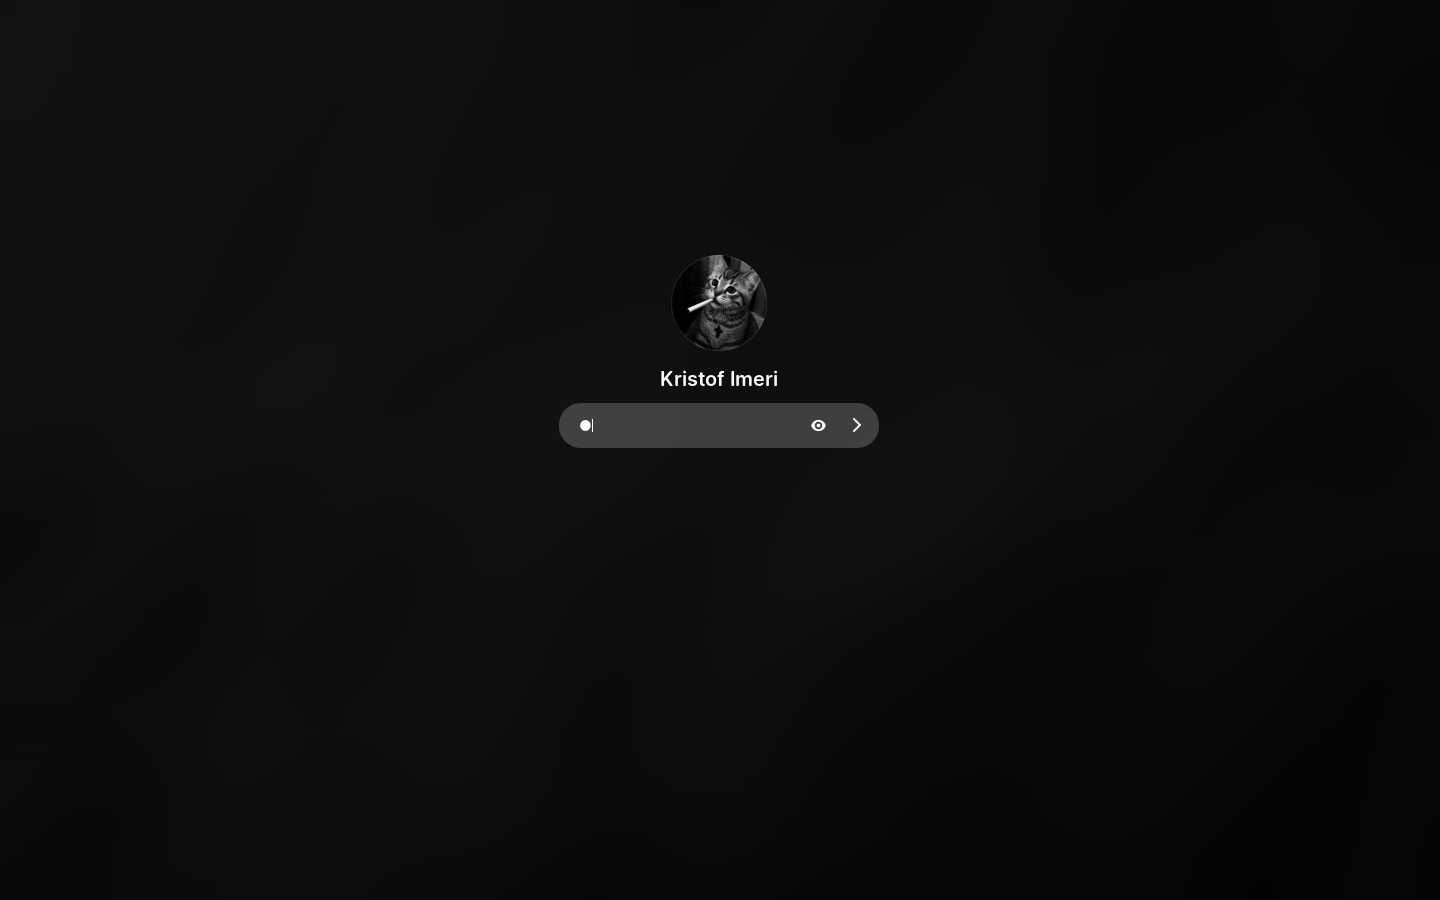
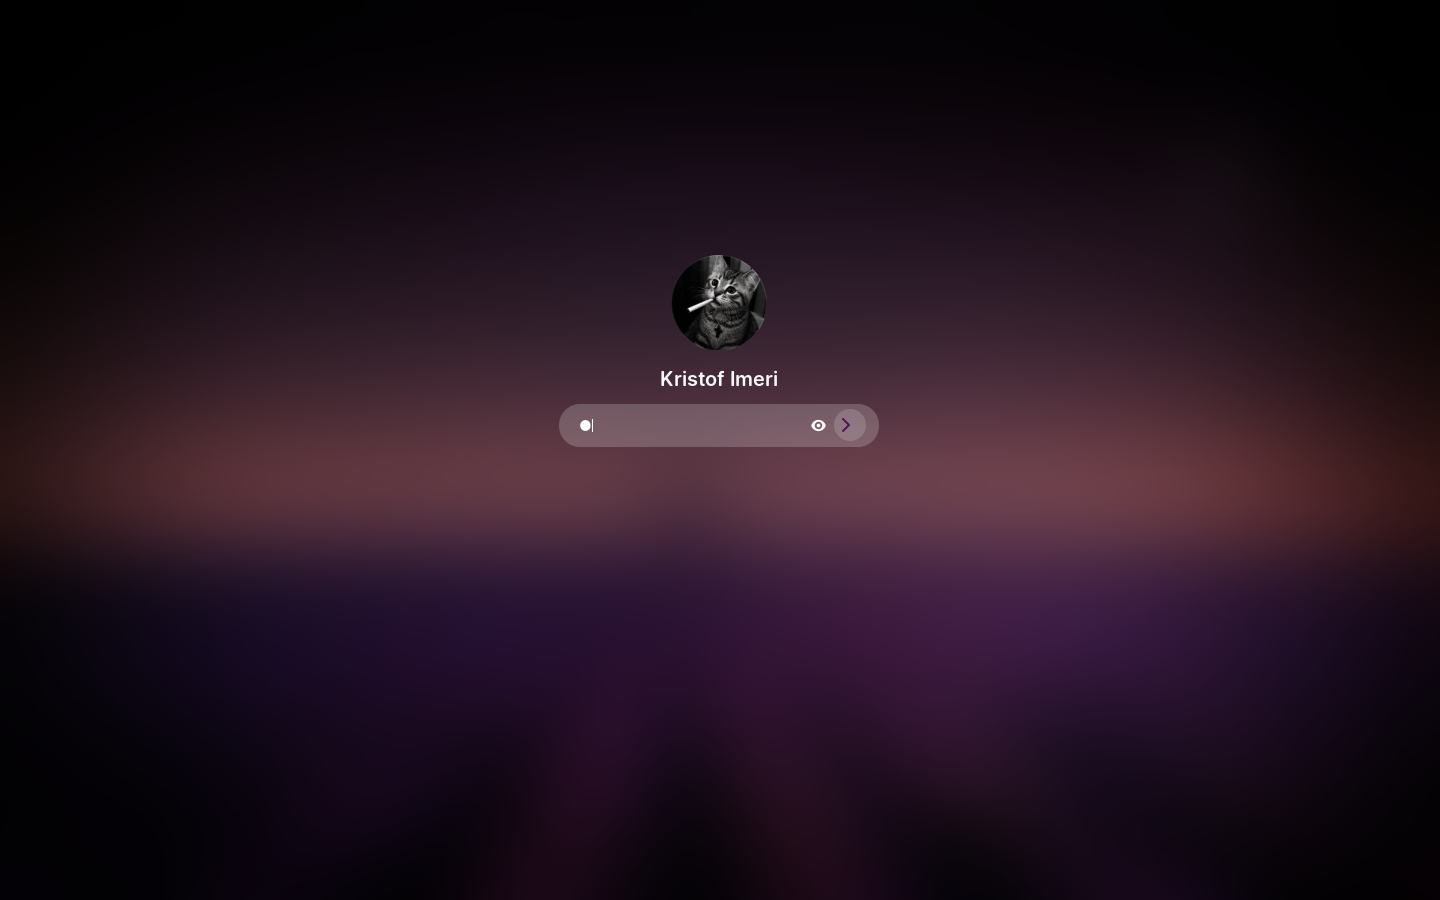
Install the login screen and document switching to it
install.sh builds and installs the settings service with its D-Bus,
polkit, systemd and tmpfiles files, installs an example greetd
configuration, and says when greetd is missing. The Kestrel README
describes the login screen, its settings, the lock screen's new sign-in
path, and how to switch from GDM to greetd and back.

diff --git a/kestrel/README.md b/kestrel/README.md
@@ -23,13 +23,13 @@ Kestrel is Luft's desktop shell. It uses a local Mutter 51 build with native win
 
 ## Runtime scope
 
-The GNOME overview, its app grid, dash, window picker, and search providers are not part of Kestrel, and neither is the GNOME extension system. The Shell D-Bus requests that opened the overview or app grid open Start instead, and a request to focus an app opens Start searching for it. The run dialog, Looking Glass, the login screen greeter, screen time limits, and parental controls are not part of Kestrel either. The screenshot window picker has its own window layout.
+The GNOME overview, its app grid, dash, window picker, and search providers are not part of Kestrel, and neither is the GNOME extension system. The Shell D-Bus requests that opened the overview or app grid open Start instead, and a request to focus an app opens Start searching for it. The run dialog, Looking Glass, screen time limits, and parental controls are not part of Kestrel either. The screenshot window picker has its own window layout.
 
 The shell ships Open Runde and registers it for its own UI at startup; applications keep the system fonts. Shell text keeps fractional glyph advances instead of rounding each letter to whole pixels, so spacing matches GTK 4 apps.
 
 Desktop Quick Settings owns only the device controls used by Kestrel. It does not construct a second native Quick Settings menu or duplicate microphone slider. The retained session panel supplies login and lock-screen controls; the desktop does not populate it.
 
-GNOME’s calendar server integration, event list, world clocks, weather integration, GNOME welcome tour, break reminders, and unused status tiles have been removed with their resources. Local AccountsService integration remains for login, unlocking, user switching, and the Start avatar. Authentication, location permission prompts, Thunderbolt authorization, accessibility, screenshots, and screen sharing retain their system backends.
+GNOME’s calendar server integration, event list, world clocks, weather integration, GNOME welcome tour, break reminders, and unused status tiles have been removed with their resources. Local AccountsService integration remains for the login screen, unlocking, and the Start avatar. Authentication, location permission prompts, Thunderbolt authorization, accessibility, screenshots, and screen sharing retain their system backends.
 
 ### Performance workload
 
@@ -37,7 +37,7 @@ Run `kestrel/tools/session.sh performance` to measure resident memory and time s
 
 ## Install as a login session
 
-`kestrel/tools/install.sh install` builds Kestrel and its Mutter into `/opt/kestrel` and links a Kestrel entry for the login screen, its systemd user units, and its portal preferences into `/usr/local`. Nothing from the system GNOME installation is replaced. Pass a prefix as the second argument to install elsewhere; session entries are only linked for prefixes under `/opt` or `/usr`. `kestrel/tools/install.sh remove` removes the prefix and the links.
+`kestrel/tools/install.sh install` builds Kestrel and its Mutter into `/opt/kestrel` and links a Kestrel entry for the login screen, its systemd user units, and its portal preferences into `/usr/local`. It also installs the login screen's settings service with its D-Bus and polkit files and the `/var/lib/kestrel-greeter` directory. Nothing from the system GNOME installation is replaced. Pass a prefix as the second argument to install elsewhere; session entries are only linked for prefixes under `/opt` or `/usr`. `kestrel/tools/install.sh remove` removes the prefix and the links.
 
 ### Memory pressure
 
@@ -55,12 +55,66 @@ The target starts only the settings services Kestrel relies on: accessibility, d
 
 Kestrel's portal handles screenshots, color picking, permission prompts, and appearance, so apps follow Kestrel's light or dark style and pick up its accent color. File dialogs open in Rover, and screen sharing and the remaining portals use GNOME's backend for now. The session identifies as `Kestrel;GNOME`, so apps that look for GNOME, for example to pick the system keyring, behave as they do there.
 
+## Login screen
+
+Kestrel is also the login screen. It runs on [greetd](https://git.sr.ht/~kennylevinsen/greetd), a small login daemon that leaves the look entirely to the greeter, so it can start any session installed on the computer: Kestrel, other Wayland desktops, and X11 desktops when `startx` is installed. greetd runs `kestrel-greeter`, which starts Kestrel in its login mode: the compositor with the login screen and nothing else, so no panel, apps, notifications, or session services.
+
+It looks and moves like the lock screen and shares its code. It opens on the large clock and date over the blurred wallpaper. A click, a key, or a swipe brings up the people on this computer at the bottom left with their account pictures, and the person who signed in most recently is already chosen, so typing starts their password right away. Choosing someone else crossfades to their wallpaper and accent color. Accounts hidden in Settings, and accounts the computer doesn't list, sign in with Another account, which asks for a username first; Back returns to it.
+
+Sign-in follows whatever the computer's sign-in rules ask for: a password, a verification code or other second step, a fingerprint, and any notes along the way, which appear under the field, with warnings in brighter text. A second step shows Back to start over. A wrong password shakes the field and says so, and the field is ready for another try. Caps Lock shows a warning while typing a password. After two minutes without input the screen returns to the clock.
+
+At the bottom right are the session, the keyboard layout when there is more than one, accessibility, and power. The session picker lists every installed session and starts with the one each person used last. Accessibility turns on larger text and, when Orca is installed, the screen reader. Power offers Suspend, Restart, and Power off.
+
+### Wallpaper and settings
+
+Each person's own wallpaper appears when they are chosen. Kestrel keeps a copy for the login screen up to date whenever the wallpaper or the light and dark style changes; for live wallpapers it is the still frame. The login screen takes its accent color from the wallpaper the same way the desktop does. Settings can instead show one picture for everyone.
+
+The Login Screen page in Settings chooses between everyone's own wallpaper and one picture for everyone, whether people are listed and who is left out, the session that starts by default, and which account signs in automatically when the computer starts.
+
+The settings are kept by `kestrel-greeter-service`, which answers on the system bus as `com.lantharos.Greeter1`. It starts when it is needed and quits after a minute without requests. Everyone can update their own login wallpaper without a password while signed in at the computer; everything else asks for an administrator. Wallpapers arrive as open files, never as paths, and are stored as pictures of at most 3840 pixels on the long side in `/var/lib/kestrel-greeter`, which the login screen reads directly. Automatic login is written as the `initial_session` in greetd's `/etc/greetd/config.toml`, which greetd runs once after each boot. The last session each person used is remembered in AccountsService, the same place GDM kept it, so earlier choices carry over.
+
+### Lock screen
+
+The lock screen checks passwords itself with the system's `login` sign-in rules, through a small helper that speaks greetd's protocol, so the lock screen and login screen share the same prompt. It works the same under greetd, GDM, or no display manager. greetd runs one session at a time, so the lock screen has no Switch User.
+
+### Switching to the Kestrel login screen
+
+Install greetd and Kestrel first:
+
+```bash
+sudo dnf install greetd
+kestrel/tools/install.sh install
+```
+
+Then point greetd at the login screen, keeping its original configuration, and switch display managers:
+
+```bash
+sudo cp /etc/greetd/config.toml /etc/greetd/config.toml.orig
+sudo cp /opt/kestrel/share/kestrel/greetd.toml /etc/greetd/config.toml
+sudo systemctl disable gdm && sudo systemctl enable greetd
+systemctl reboot
+```
+
+To go back to GDM:
+
+```bash
+sudo systemctl disable greetd && sudo systemctl enable gdm
+sudo cp /etc/greetd/config.toml.orig /etc/greetd/config.toml
+systemctl reboot
+```
+
+If the login screen doesn't appear, press Ctrl+Alt+F3 for a text console, sign in there, and run the commands to go back to GDM. If no console answers either, press E on the boot menu entry, add `systemd.unit=multi-user.target` to the end of the line that starts with `linux`, and press Ctrl+X to boot to a text console for this boot only.
+
+### Trying it without switching
+
+`kestrel/tools/session.sh greeter` runs the login screen in a headless session against a stand-in for greetd with scripted sign-ins (a correct password, a wrong one, notes and warnings along the way, and a second step), stand-ins for the account, login and locale services, and the settings service itself running as a normal user. It checks the people list, password entry, wrong passwords, typed usernames, switching people with their wallpapers and accent colors, the session picker, keyboard layouts, larger text, and power, then signs in and confirms the chosen session starts and is remembered. It saves `login-clock.png`, `login-users.png`, `login-password.png`, `login-wrong-password.png`, `login-switch-user.png`, `login-session-picker.png`, `login-power-menu.png`, and `login-second-factor.png`, and reports the login screen's resident memory and processor use while idle. `kestrel/tools/session.sh capture` runs it after the desktop checks.
+
 ## Work before a Luft session
 
 1. Log into the Kestrel session on real hardware and qualify it end to end. The TypeScript UI is loaded by a reduced upstream `main.js` path.
 2. Qualify monitor hotplug and mixed display scaling on hardware, and complete notification actions and persistent preferences.
 3. Replace GNOME's portal backend for screen sharing and global shortcuts, then exercise the portal calls from client apps.
-4. Verify polkit, keyring, network credentials, lock and unlock, OSD, accessibility, and GDM handoff under a real login session.
+4. Verify polkit, keyring, network credentials, lock and unlock, OSD, accessibility, and the greetd handoff under a real login session.
 5. Package Kestrel with a pinned Mutter ABI for Luft, review runtime dependencies, and test on a disposable machine before making it a selectable default session.
 
 The virtual session checks the build, JS startup, and captured rendering. It does not validate a physical display, login manager, suspend, or portal permission dialogs.
@@ -107,7 +161,7 @@ Single-row surfaces and controls are pills: the volume and brightness OSD, the w
 
 Modal dialogs rise in as they open and use a symbolic icon for their purpose above stable, left-aligned headings, with shared action buttons where the default action stands out. Authentication shows a small account row above the password field. Wi-Fi, VPN, keyring, and encrypted-drive forms keep their field labels visible while typing; inputs share the Start menu's glass treatment, caret, selection, and focus styling. Password visibility controls and accessible labels remain available. Audio-device choices use full-width rows. Session warnings and permission dialogs use the same typography and list styling.
 
-The capture command exercises audio selection, encrypted-volume password, and log out confirmation requests through D-Bus and cancels them without submitting credentials. It records a notification banner, media controls driven by a test player, a tray icon and its menu from a test app, the all-windows view with windows moved between desktops, grouped notifications and an inline reply, per-app Do Not Disturb and notification list rules, snapped windows returning together, taskbar counts, progress, and attention with desktop peek, the privacy button and its menu during a screen share, the keep-awake eye, Keep Awake, Dark Style, Airplane Mode, and Keyboard Backlight tiles against stand-in system services, global shortcuts from registration through the shortcut dialog, the wallpaper palette and its contrast, colors for other apps written next to existing styles and removed again, Start in Pure black, a custom dark style schedule, a live wallpaper that pauses under a maximized window, keeps the panel in front of it on an empty desktop, follows the light and dark style with a video of its own for each, and ends when a picture is chosen, clipboard history opening at the text cursor of a GTK field and pasting into it, and the lock screen and unlock prompt. It also checks keyboard navigation, lock-mode visibility, blocked Super activation, live window previews, Alt-Tab with real client windows, workspace shortcuts and scrolling, fullscreen panel visibility, volume OSDs, and screenshot controls. Lock-mode checks do not authenticate through GDM. A nested session shares the host login session, so its polkit agent cannot register alongside the host agent; polkit authentication, keyring unlock, network credential submission, and password unlock still require qualification in a dedicated Kestrel login session.
+The capture command exercises audio selection, encrypted-volume password, and log out confirmation requests through D-Bus and cancels them without submitting credentials. It records a notification banner, media controls driven by a test player, a tray icon and its menu from a test app, the all-windows view with windows moved between desktops, grouped notifications and an inline reply, per-app Do Not Disturb and notification list rules, snapped windows returning together, taskbar counts, progress, and attention with desktop peek, the privacy button and its menu during a screen share, the keep-awake eye, Keep Awake, Dark Style, Airplane Mode, and Keyboard Backlight tiles against stand-in system services, global shortcuts from registration through the shortcut dialog, the wallpaper palette and its contrast, colors for other apps written next to existing styles and removed again, Start in Pure black, a custom dark style schedule, a live wallpaper that pauses under a maximized window, keeps the panel in front of it on an empty desktop, follows the light and dark style with a video of its own for each, and ends when a picture is chosen, clipboard history opening at the text cursor of a GTK field and pasting into it, and the lock screen and unlock prompt. It also checks keyboard navigation, lock-mode visibility, blocked Super activation, live window previews, Alt-Tab with real client windows, workspace shortcuts and scrolling, fullscreen panel visibility, volume OSDs, and screenshot controls. Lock-mode checks do not enter a real password. A nested session shares the host login session, so its polkit agent cannot register alongside the host agent; polkit authentication, keyring unlock, network credential submission, and password unlock still require qualification in a dedicated Kestrel login session.
 
 The development launcher loads resources, typelibs, libraries, and schemas from the build directory, without depending on an installed temporary prefix.
 

diff --git a/README.md b/README.md
@@ -49,7 +49,7 @@ To capture the shell surfaces, keyboard search, and a test window:
 kestrel/tools/session.sh capture
 ```
 
-Captures use a 1440×900 virtual monitor by default. Set `KESTREL_CAPTURE_SIZE=1280x800` for another size, `KESTREL_CAPTURE_SECONDARY_SIZE=1280x720` to include a second display, or `KESTREL_CAPTURE_DIR` to choose the output directory. The output includes the panel, Start, search, quick settings, notification center, Start power options, available Quick Settings device selectors, a window, Start above a window, and a maximized window. A hover capture reads the rendered framebuffer without repainting the scene; a complete-redraw reference is saved under `kestrel/run/cache` for comparison. Context-menu captures cover Start and panel apps; the log checks keyboard opening, dismissal, isolated unpinning, surface stacking, and running-dot separation. Additional captures exercise real audio-selection and encrypted-volume password dialogs, live taskbar previews, and Alt-Tab. Session checks cover keyboard navigation, lock-mode visibility and shortcut blocking, modal dismissal, and Ctrl-Alt-Tab; with a second display, they also check context-menu placement. Authentication through polkit and GDM still needs a dedicated login session. The log also reports panel geometry, placeholder positions during opening, taskbar animation widths, caret blink states, Do Not Disturb pointer toggling and restoration, idle frame count after hover with search unfocused, and the maximized work area.
+Captures use a 1440×900 virtual monitor by default. Set `KESTREL_CAPTURE_SIZE=1280x800` for another size, `KESTREL_CAPTURE_SECONDARY_SIZE=1280x720` to include a second display, or `KESTREL_CAPTURE_DIR` to choose the output directory. The output includes the panel, Start, search, quick settings, notification center, Start power options, available Quick Settings device selectors, a window, Start above a window, and a maximized window. A hover capture reads the rendered framebuffer without repainting the scene; a complete-redraw reference is saved under `kestrel/run/cache` for comparison. Context-menu captures cover Start and panel apps; the log checks keyboard opening, dismissal, isolated unpinning, surface stacking, and running-dot separation. Additional captures exercise real audio-selection and encrypted-volume password dialogs, live taskbar previews, and Alt-Tab. Session checks cover keyboard navigation, lock-mode visibility and shortcut blocking, modal dismissal, and Ctrl-Alt-Tab; with a second display, they also check context-menu placement. Authentication through polkit, and unlocking with a real password, still need a dedicated login session. The same command then runs the login screen checks described in the Kestrel README. The log also reports panel geometry, placeholder positions during opening, taskbar animation widths, caret blink states, Do Not Disturb pointer toggling and restoration, idle frame count after hover with search unfocused, and the maximized work area.
 
 Run `kestrel/tools/session.sh performance` for the isolated startup memory, search, notification-burst, actor-reuse, and idle-paint workload. See [Kestrel’s runtime scope](kestrel/README.md#runtime-scope) for retained services and removed UI.
 
